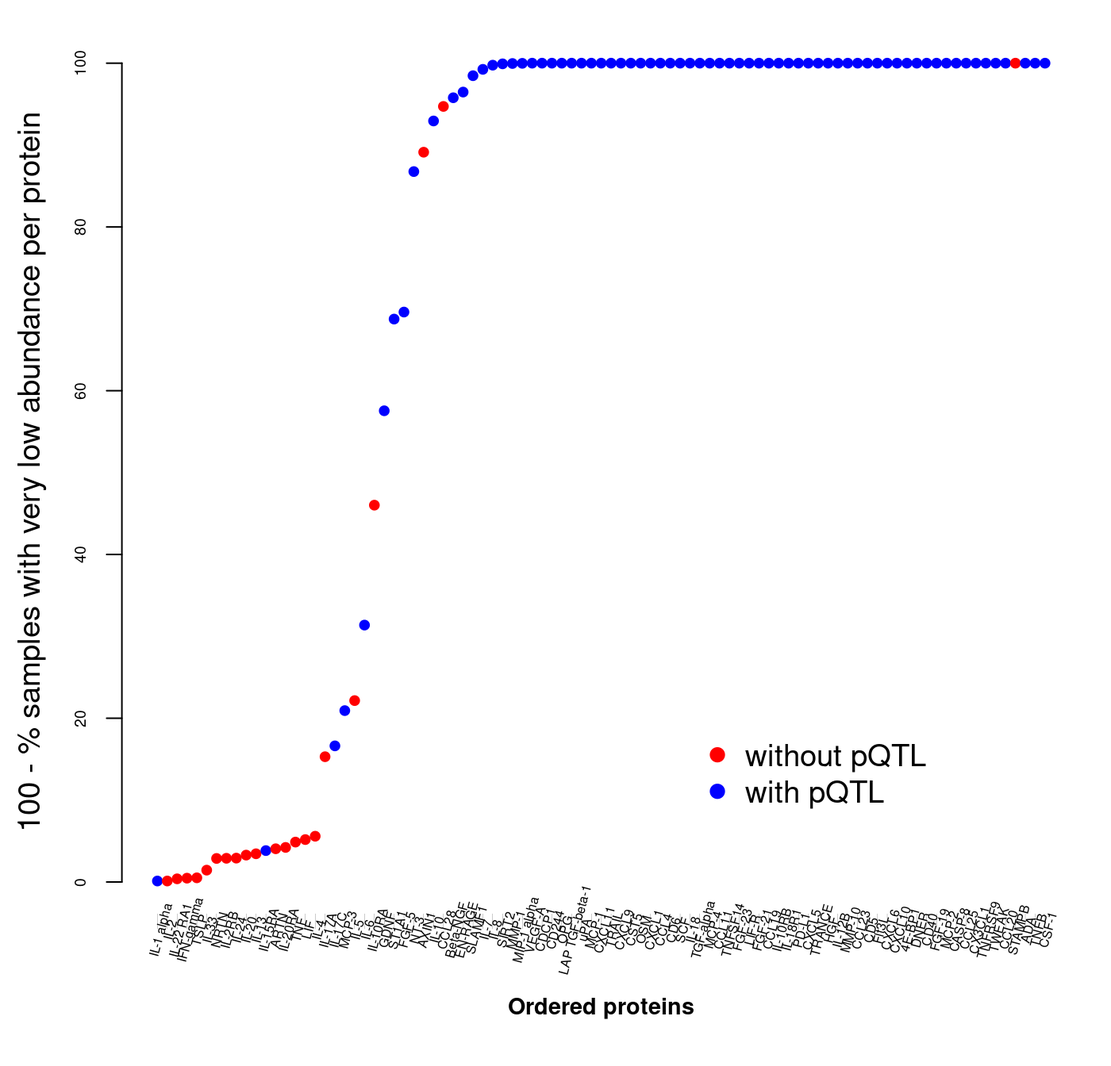
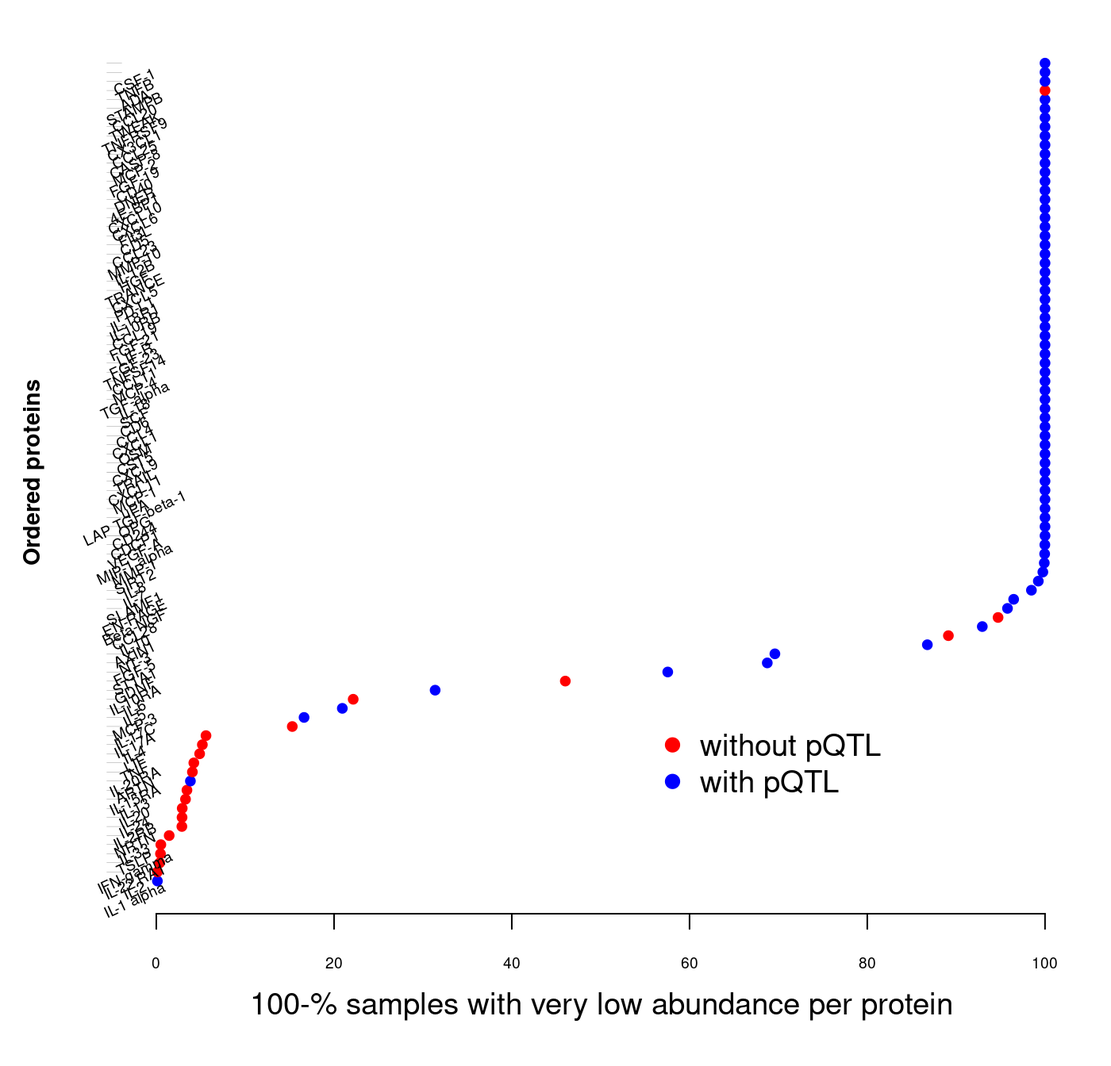
docs

diff --git a/docs/articles/es.html b/docs/articles/es.html
@@ -138,10 +138,10 @@
     
 <div class="sourceCode" id="cb1"><pre class="downlit sourceCode r">
 <code class="sourceCode R"><span><span class="va">pkgs</span> <span class="op">&lt;-</span> <span class="fu"><a href="https://rdrr.io/r/base/c.html" class="external-link">c</a></span><span class="op">(</span><span class="st">"Biobase"</span>, <span class="st">"arrayQualityMetrics"</span>, <span class="st">"knitr"</span>, <span class="st">"pQTLtools"</span><span class="op">)</span></span>
-<span><span class="kw">for</span> <span class="op">(</span><span class="va">p</span> <span class="kw">in</span> <span class="va">pkgs</span><span class="op">)</span> <span class="kw">if</span> <span class="op">(</span><span class="fu"><a href="https://rdrr.io/r/base/length.html" class="external-link">length</a></span><span class="op">(</span><span class="fu"><a href="https://rdrr.io/pkg/BiocGenerics/man/grep.html" class="external-link">grep</a></span><span class="op">(</span><span class="fu"><a href="https://rdrr.io/pkg/BiocGenerics/man/paste.html" class="external-link">paste</a></span><span class="op">(</span><span class="st">"^package:"</span>, <span class="va">p</span>, <span class="st">"$"</span>, sep<span class="op">=</span><span class="st">""</span><span class="op">)</span>, <span class="fu"><a href="https://rdrr.io/r/base/search.html" class="external-link">search</a></span><span class="op">(</span><span class="op">)</span><span class="op">)</span><span class="op">)</span> <span class="op">==</span> <span class="fl">0</span><span class="op">)</span> <span class="op">{</span></span>
+<span><span class="kw">for</span> <span class="op">(</span><span class="va">p</span> <span class="kw">in</span> <span class="va">pkgs</span><span class="op">)</span> <span class="kw">if</span> <span class="op">(</span><span class="fu"><a href="https://rdrr.io/r/base/length.html" class="external-link">length</a></span><span class="op">(</span><span class="fu"><a href="https://rdrr.io/r/base/grep.html" class="external-link">grep</a></span><span class="op">(</span><span class="fu"><a href="https://rdrr.io/r/base/paste.html" class="external-link">paste</a></span><span class="op">(</span><span class="st">"^package:"</span>, <span class="va">p</span>, <span class="st">"$"</span>, sep<span class="op">=</span><span class="st">""</span><span class="op">)</span>, <span class="fu"><a href="https://rdrr.io/r/base/search.html" class="external-link">search</a></span><span class="op">(</span><span class="op">)</span><span class="op">)</span><span class="op">)</span> <span class="op">==</span> <span class="fl">0</span><span class="op">)</span> <span class="op">{</span></span>
 <span>    <span class="kw">if</span> <span class="op">(</span><span class="op">!</span><span class="fu"><a href="https://rdrr.io/r/base/ns-load.html" class="external-link">requireNamespace</a></span><span class="op">(</span><span class="va">p</span><span class="op">)</span><span class="op">)</span> <span class="kw"><a href="https://rdrr.io/r/base/warning.html" class="external-link">warning</a></span><span class="op">(</span><span class="fu"><a href="https://rdrr.io/r/base/paste.html" class="external-link">paste0</a></span><span class="op">(</span><span class="st">"This vignette needs package `"</span>, <span class="va">p</span>, <span class="st">"'; please install"</span><span class="op">)</span><span class="op">)</span></span>
 <span><span class="op">}</span></span>
-<span><span class="fu"><a href="https://rdrr.io/r/base/invisible.html" class="external-link">invisible</a></span><span class="op">(</span><span class="fu"><a href="https://rdrr.io/r/base/message.html" class="external-link">suppressMessages</a></span><span class="op">(</span><span class="fu"><a href="https://rdrr.io/pkg/BiocGenerics/man/lapply.html" class="external-link">lapply</a></span><span class="op">(</span><span class="va">pkgs</span>, <span class="va">require</span>, character.only <span class="op">=</span> <span class="cn">TRUE</span><span class="op">)</span><span class="op">)</span><span class="op">)</span></span></code></pre></div>
+<span><span class="fu"><a href="https://rdrr.io/r/base/invisible.html" class="external-link">invisible</a></span><span class="op">(</span><span class="fu"><a href="https://rdrr.io/r/base/message.html" class="external-link">suppressMessages</a></span><span class="op">(</span><span class="fu"><a href="https://rdrr.io/r/base/lapply.html" class="external-link">lapply</a></span><span class="op">(</span><span class="va">pkgs</span>, <span class="va">require</span>, character.only <span class="op">=</span> <span class="cn">TRUE</span><span class="op">)</span><span class="op">)</span><span class="op">)</span></span></code></pre></div>
 <p>We illustrate Bioconductor/Biobase’s ExpressionSet with its example
 and finish with a real example. See also the reference section.</p>
 <div class="sourceCode" id="cb2"><pre class="downlit sourceCode r">
@@ -150,14 +150,14 @@ and finish with a real example. See also the reference section.</p>
 <span><span class="va">exprs</span> <span class="op">&lt;-</span> <span class="fu"><a href="https://rdrr.io/r/base/matrix.html" class="external-link">as.matrix</a></span><span class="op">(</span><span class="fu"><a href="https://rdrr.io/r/utils/read.table.html" class="external-link">read.table</a></span><span class="op">(</span><span class="va">exprsFile</span>, header<span class="op">=</span><span class="cn">TRUE</span>, sep<span class="op">=</span><span class="st">"\t"</span>, row.names<span class="op">=</span><span class="fl">1</span>, as.is<span class="op">=</span><span class="cn">TRUE</span><span class="op">)</span><span class="op">)</span></span>
 <span><span class="va">pDataFile</span> <span class="op">&lt;-</span> <span class="fu"><a href="https://rdrr.io/r/base/file.path.html" class="external-link">file.path</a></span><span class="op">(</span><span class="va">dataDirectory</span>, <span class="st">"pData.txt"</span><span class="op">)</span></span>
 <span><span class="va">pData</span> <span class="op">&lt;-</span> <span class="fu"><a href="https://rdrr.io/r/utils/read.table.html" class="external-link">read.table</a></span><span class="op">(</span><span class="va">pDataFile</span>, row.names<span class="op">=</span><span class="fl">1</span>, header<span class="op">=</span><span class="cn">TRUE</span>, sep<span class="op">=</span><span class="st">"\t"</span><span class="op">)</span></span>
-<span><span class="fu"><a href="https://rdrr.io/r/base/all.html" class="external-link">all</a></span><span class="op">(</span><span class="fu"><a href="https://rdrr.io/pkg/BiocGenerics/man/row_colnames.html" class="external-link">rownames</a></span><span class="op">(</span><span class="va">pData</span><span class="op">)</span><span class="op">==</span><span class="fu"><a href="https://rdrr.io/pkg/BiocGenerics/man/row_colnames.html" class="external-link">colnames</a></span><span class="op">(</span><span class="va">exprs</span><span class="op">)</span><span class="op">)</span></span>
+<span><span class="fu"><a href="https://rdrr.io/r/base/all.html" class="external-link">all</a></span><span class="op">(</span><span class="fu"><a href="https://rdrr.io/r/base/colnames.html" class="external-link">rownames</a></span><span class="op">(</span><span class="va">pData</span><span class="op">)</span><span class="op">==</span><span class="fu"><a href="https://rdrr.io/r/base/colnames.html" class="external-link">colnames</a></span><span class="op">(</span><span class="va">exprs</span><span class="op">)</span><span class="op">)</span></span>
 <span><span class="va">metadata</span> <span class="op">&lt;-</span> <span class="fu"><a href="https://rdrr.io/r/base/data.frame.html" class="external-link">data.frame</a></span><span class="op">(</span>labelDescription<span class="op">=</span></span>
 <span>                       <span class="fu"><a href="https://rdrr.io/r/base/c.html" class="external-link">c</a></span><span class="op">(</span><span class="st">"Patient gender"</span>,</span>
 <span>                         <span class="st">"Case/control status"</span>,</span>
 <span>                         <span class="st">"Tumor progress on XYZ scale"</span><span class="op">)</span>,</span>
 <span>                       row.names<span class="op">=</span><span class="fu"><a href="https://rdrr.io/r/base/c.html" class="external-link">c</a></span><span class="op">(</span><span class="st">"gender"</span>, <span class="st">"type"</span>, <span class="st">"score"</span><span class="op">)</span><span class="op">)</span></span>
-<span><span class="va">phenoData</span> <span class="op">&lt;-</span> <span class="fu"><a href="https://rdrr.io/r/methods/new.html" class="external-link">new</a></span><span class="op">(</span><span class="st">"AnnotatedDataFrame"</span>, data<span class="op">=</span><span class="va">pData</span>, varMetadata<span class="op">=</span><span class="va">metadata</span><span class="op">)</span></span>
-<span><span class="va">experimentData</span> <span class="op">&lt;-</span> <span class="fu"><a href="https://rdrr.io/r/methods/new.html" class="external-link">new</a></span><span class="op">(</span><span class="st">"MIAME"</span>,</span>
+<span><span class="va">phenoData</span> <span class="op">&lt;-</span> <span class="fu">new</span><span class="op">(</span><span class="st">"AnnotatedDataFrame"</span>, data<span class="op">=</span><span class="va">pData</span>, varMetadata<span class="op">=</span><span class="va">metadata</span><span class="op">)</span></span>
+<span><span class="va">experimentData</span> <span class="op">&lt;-</span> <span class="fu">new</span><span class="op">(</span><span class="st">"MIAME"</span>,</span>
 <span>  name<span class="op">=</span><span class="st">"Pierre Fermat"</span>,</span>
 <span>  lab<span class="op">=</span><span class="st">"Francis Galton Lab"</span>,</span>
 <span>  contact<span class="op">=</span><span class="st">"pfermat@lab.not.exist"</span>,</span>
@@ -175,7 +175,7 @@ and finish with a real example. See also the reference section.</p>
 <p>The great benefit is to use the object directly as a data.frame.</p>
 <div class="sourceCode" id="cb3"><pre class="downlit sourceCode r">
 <code class="sourceCode R"><span><span class="va">lm.result</span> <span class="op">&lt;-</span> <span class="fu">esApply</span><span class="op">(</span><span class="va">exampleSet</span>,<span class="fl">1</span>,<span class="kw">function</span><span class="op">(</span><span class="va">x</span><span class="op">)</span> <span class="fu"><a href="https://rdrr.io/r/stats/lm.html" class="external-link">lm</a></span><span class="op">(</span><span class="va">score</span><span class="op">~</span><span class="va">gender</span><span class="op">+</span><span class="va">x</span><span class="op">)</span><span class="op">)</span></span>
-<span><span class="va">beta.x</span> <span class="op">&lt;-</span> <span class="fu"><a href="https://rdrr.io/pkg/BiocGenerics/man/unlist.html" class="external-link">unlist</a></span><span class="op">(</span><span class="fu"><a href="https://rdrr.io/pkg/BiocGenerics/man/lapply.html" class="external-link">lapply</a></span><span class="op">(</span><span class="fu"><a href="https://rdrr.io/pkg/BiocGenerics/man/lapply.html" class="external-link">lapply</a></span><span class="op">(</span><span class="va">lm.result</span>,<span class="va">coef</span><span class="op">)</span>,<span class="st">"["</span>,<span class="fl">3</span><span class="op">)</span><span class="op">)</span></span>
+<span><span class="va">beta.x</span> <span class="op">&lt;-</span> <span class="fu"><a href="https://rdrr.io/r/base/unlist.html" class="external-link">unlist</a></span><span class="op">(</span><span class="fu"><a href="https://rdrr.io/r/base/lapply.html" class="external-link">lapply</a></span><span class="op">(</span><span class="fu"><a href="https://rdrr.io/r/base/lapply.html" class="external-link">lapply</a></span><span class="op">(</span><span class="va">lm.result</span>,<span class="va">coef</span><span class="op">)</span>,<span class="st">"["</span>,<span class="fl">3</span><span class="op">)</span><span class="op">)</span></span>
 <span><span class="va">beta.x</span><span class="op">[</span><span class="fl">1</span><span class="op">]</span></span>
 <span><span class="co">#&gt; AFFX-MurIL2_at.x </span></span>
 <span><span class="co">#&gt;    -0.0001907472</span></span>
@@ -199,8 +199,8 @@ simplicity as before</p>
 <p>but it is nicer to add feature name in the title.</p>
 <div class="sourceCode" id="cb5"><pre class="downlit sourceCode r">
 <code class="sourceCode R"><span><span class="va">f</span> <span class="op">&lt;-</span> <span class="fu">featureNames</span><span class="op">(</span><span class="va">exampleSet</span><span class="op">[</span><span class="fl">1</span><span class="op">:</span><span class="fl">2</span><span class="op">]</span><span class="op">)</span></span>
-<span><span class="fu"><a href="https://rdrr.io/r/base/invisible.html" class="external-link">invisible</a></span><span class="op">(</span><span class="fu"><a href="https://rdrr.io/pkg/BiocGenerics/man/lapply.html" class="external-link">sapply</a></span><span class="op">(</span><span class="va">f</span>,<span class="kw">function</span><span class="op">(</span><span class="va">x</span><span class="op">)</span> <span class="op">{</span></span>
-<span>                     <span class="va">d</span> <span class="op">&lt;-</span> <span class="fu"><a href="https://rdrr.io/pkg/BiocGenerics/man/t.html" class="external-link">t</a></span><span class="op">(</span><span class="fu">exprs</span><span class="op">(</span><span class="va">exampleSet</span><span class="op">[</span><span class="va">x</span><span class="op">]</span><span class="op">)</span><span class="op">)</span></span>
+<span><span class="fu"><a href="https://rdrr.io/r/base/invisible.html" class="external-link">invisible</a></span><span class="op">(</span><span class="fu"><a href="https://rdrr.io/r/base/lapply.html" class="external-link">sapply</a></span><span class="op">(</span><span class="va">f</span>,<span class="kw">function</span><span class="op">(</span><span class="va">x</span><span class="op">)</span> <span class="op">{</span></span>
+<span>                     <span class="va">d</span> <span class="op">&lt;-</span> <span class="fu"><a href="https://rdrr.io/r/base/t.html" class="external-link">t</a></span><span class="op">(</span><span class="fu">exprs</span><span class="op">(</span><span class="va">exampleSet</span><span class="op">[</span><span class="va">x</span><span class="op">]</span><span class="op">)</span><span class="op">)</span></span>
 <span>                     <span class="va">fn</span> <span class="op">&lt;-</span> <span class="fu">featureNames</span><span class="op">(</span><span class="va">exampleSet</span><span class="op">[</span><span class="va">x</span><span class="op">]</span><span class="op">)</span></span>
 <span>                     <span class="fu"><a href="https://rdrr.io/r/graphics/par.html" class="external-link">par</a></span><span class="op">(</span>mfrow<span class="op">=</span><span class="fu"><a href="https://rdrr.io/r/base/c.html" class="external-link">c</a></span><span class="op">(</span><span class="fl">3</span>,<span class="fl">1</span><span class="op">)</span><span class="op">)</span></span>
 <span>                     <span class="fu"><a href="https://rdrr.io/r/graphics/hist.html" class="external-link">hist</a></span><span class="op">(</span><span class="va">d</span>,main<span class="op">=</span><span class="st">""</span>,xlab<span class="op">=</span><span class="va">fn</span><span class="op">)</span>; <span class="fu"><a href="https://rdrr.io/r/graphics/plot.default.html" class="external-link">plot</a></span><span class="op">(</span><span class="va">d</span>, ylab<span class="op">=</span><span class="va">fn</span><span class="op">)</span>; <span class="fu"><a href="https://rdrr.io/r/graphics/boxplot.html" class="external-link">boxplot</a></span><span class="op">(</span><span class="va">d</span>,ylab<span class="op">=</span><span class="va">fn</span><span class="op">)</span></span>
@@ -239,9 +239,9 @@ experiment</p>
 <div class="sourceCode" id="cb8"><pre class="downlit sourceCode r">
 <code class="sourceCode R"><span><span class="fu">fData</span><span class="op">(</span><span class="va">exampleSet</span><span class="op">)</span></span>
 <span><span class="co">#&gt; data frame with 0 columns and 500 rows</span></span>
-<span><span class="fu">fData</span><span class="op">(</span><span class="va">exampleSet</span><span class="op">)</span><span class="op">$</span><span class="va">lod.max</span> <span class="op">&lt;-</span> <span class="fu"><a href="https://rdrr.io/r/base/apply.html" class="external-link">apply</a></span><span class="op">(</span><span class="fu">exprs</span><span class="op">(</span><span class="va">exampleSet</span><span class="op">)</span>,<span class="fl">1</span>,<span class="va">quantile</span>,<span class="fu"><a href="https://rdrr.io/r/stats/Uniform.html" class="external-link">runif</a></span><span class="op">(</span><span class="fu"><a href="https://rdrr.io/pkg/BiocGenerics/man/nrow.html" class="external-link">nrow</a></span><span class="op">(</span><span class="va">exampleSet</span><span class="op">)</span><span class="op">)</span><span class="op">)</span></span>
+<span><span class="fu">fData</span><span class="op">(</span><span class="va">exampleSet</span><span class="op">)</span><span class="op">$</span><span class="va">lod.max</span> <span class="op">&lt;-</span> <span class="fu"><a href="https://rdrr.io/r/base/apply.html" class="external-link">apply</a></span><span class="op">(</span><span class="fu">exprs</span><span class="op">(</span><span class="va">exampleSet</span><span class="op">)</span>,<span class="fl">1</span>,<span class="va">quantile</span>,<span class="fu"><a href="https://rdrr.io/r/stats/Uniform.html" class="external-link">runif</a></span><span class="op">(</span><span class="fu"><a href="https://rdrr.io/r/base/nrow.html" class="external-link">nrow</a></span><span class="op">(</span><span class="va">exampleSet</span><span class="op">)</span><span class="op">)</span><span class="op">)</span></span>
 <span><span class="va">lod</span> <span class="op">&lt;-</span> <span class="fu"><a href="../reference/get.prop.below.LLOD.html">get.prop.below.LLOD</a></span><span class="op">(</span><span class="va">exampleSet</span><span class="op">)</span></span>
-<span><span class="va">x</span> <span class="op">&lt;-</span> <span class="fu">dplyr</span><span class="fu">::</span><span class="fu"><a href="https://dplyr.tidyverse.org/reference/arrange.html" class="external-link">arrange</a></span><span class="op">(</span><span class="fu">fData</span><span class="op">(</span><span class="va">lod</span><span class="op">)</span>,<span class="fu"><a href="https://dplyr.tidyverse.org/reference/desc.html" class="external-link">desc</a></span><span class="op">(</span><span class="va">pc.belowLOD.new</span><span class="op">)</span><span class="op">)</span></span>
+<span><span class="va">x</span> <span class="op">&lt;-</span> <span class="fu">dplyr</span><span class="fu">::</span><span class="fu"><a href="https://dplyr.tidyverse.org/reference/arrange.html" class="external-link">arrange</a></span><span class="op">(</span><span class="fu">fData</span><span class="op">(</span><span class="va">lod</span><span class="op">)</span>,<span class="fu">desc</span><span class="op">(</span><span class="va">pc.belowLOD.new</span><span class="op">)</span><span class="op">)</span></span>
 <span><span class="fu">kable</span><span class="op">(</span><span class="fu"><a href="https://rdrr.io/r/utils/head.html" class="external-link">head</a></span><span class="op">(</span><span class="va">lod</span><span class="op">)</span><span class="op">)</span></span></code></pre></div>
 <table class="table">
 <colgroup>
@@ -598,28 +598,28 @@ and therefore pQTL detection as is shown with a real example.</p>
 <span><span class="fu"><a href="https://rdrr.io/r/graphics/plot.default.html" class="external-link">plot</a></span><span class="op">(</span><span class="va">annot</span><span class="op">$</span><span class="va">MissDataProp</span>, <span class="va">annot</span><span class="op">$</span><span class="va">pc.belowLOD.new</span>, xlab<span class="op">=</span><span class="st">"% &lt;LLOD in Original"</span>,</span>
 <span>     ylab<span class="op">=</span><span class="st">"% &lt;LLOD in post QC dataset"</span>, pch<span class="op">=</span><span class="fl">19</span><span class="op">)</span></span>
 <span><span class="va">INF</span> <span class="op">&lt;-</span> <span class="fu"><a href="https://rdrr.io/r/base/Sys.getenv.html" class="external-link">Sys.getenv</a></span><span class="op">(</span><span class="st">"INF"</span><span class="op">)</span></span>
-<span><span class="va">np</span> <span class="op">&lt;-</span> <span class="fu"><a href="https://rdrr.io/r/utils/read.table.html" class="external-link">read.table</a></span><span class="op">(</span><span class="fu"><a href="https://rdrr.io/pkg/BiocGenerics/man/paste.html" class="external-link">paste</a></span><span class="op">(</span><span class="va">INF</span>, <span class="st">"work"</span>, <span class="st">"INF1.merge.nosig"</span>, sep<span class="op">=</span><span class="st">"/"</span><span class="op">)</span>, header<span class="op">=</span><span class="cn">FALSE</span>,</span>
+<span><span class="va">np</span> <span class="op">&lt;-</span> <span class="fu"><a href="https://rdrr.io/r/utils/read.table.html" class="external-link">read.table</a></span><span class="op">(</span><span class="fu"><a href="https://rdrr.io/r/base/paste.html" class="external-link">paste</a></span><span class="op">(</span><span class="va">INF</span>, <span class="st">"work"</span>, <span class="st">"INF1.merge.nosig"</span>, sep<span class="op">=</span><span class="st">"/"</span><span class="op">)</span>, header<span class="op">=</span><span class="cn">FALSE</span>,</span>
 <span>                 col.names <span class="op">=</span> <span class="fu"><a href="https://rdrr.io/r/base/c.html" class="external-link">c</a></span><span class="op">(</span><span class="st">"prot"</span>, <span class="st">"uniprot"</span><span class="op">)</span><span class="op">)</span></span>
 <span><span class="fu">kable</span><span class="op">(</span><span class="va">np</span>, caption<span class="op">=</span><span class="st">"Proteins with no pQTL"</span><span class="op">)</span></span>
-<span><span class="va">annot</span><span class="op">$</span><span class="va">pQTL</span> <span class="op">&lt;-</span> <span class="fu"><a href="https://rdrr.io/r/base/rep.html" class="external-link">rep</a></span><span class="op">(</span><span class="cn">NA</span>, <span class="fu"><a href="https://rdrr.io/pkg/BiocGenerics/man/nrow.html" class="external-link">nrow</a></span><span class="op">(</span><span class="va">annot</span><span class="op">)</span><span class="op">)</span></span>
-<span><span class="va">no.pQTL.ind</span> <span class="op">&lt;-</span> <span class="fu"><a href="https://rdrr.io/pkg/BiocGenerics/man/which.html" class="external-link">which</a></span><span class="op">(</span><span class="va">annot</span><span class="op">$</span><span class="va">uniprot.id</span> <span class="op"><a href="https://rdrr.io/pkg/BiocGenerics/man/match.html" class="external-link">%in%</a></span> <span class="va">np</span><span class="op">$</span><span class="va">uniprot</span><span class="op">)</span></span>
+<span><span class="va">annot</span><span class="op">$</span><span class="va">pQTL</span> <span class="op">&lt;-</span> <span class="fu"><a href="https://rdrr.io/r/base/rep.html" class="external-link">rep</a></span><span class="op">(</span><span class="cn">NA</span>, <span class="fu"><a href="https://rdrr.io/r/base/nrow.html" class="external-link">nrow</a></span><span class="op">(</span><span class="va">annot</span><span class="op">)</span><span class="op">)</span></span>
+<span><span class="va">no.pQTL.ind</span> <span class="op">&lt;-</span> <span class="fu"><a href="https://rdrr.io/r/base/which.html" class="external-link">which</a></span><span class="op">(</span><span class="va">annot</span><span class="op">$</span><span class="va">uniprot.id</span> <span class="op"><a href="https://rdrr.io/r/base/match.html" class="external-link">%in%</a></span> <span class="va">np</span><span class="op">$</span><span class="va">uniprot</span><span class="op">)</span></span>
 <span><span class="va">annot</span><span class="op">$</span><span class="va">pQTL</span><span class="op">[</span><span class="va">no.pQTL.ind</span><span class="op">]</span> <span class="op">&lt;-</span> <span class="st">"red"</span></span>
 <span><span class="va">annot</span><span class="op">$</span><span class="va">pQTL</span><span class="op">[</span><span class="op">-</span><span class="va">no.pQTL.ind</span><span class="op">]</span> <span class="op">&lt;-</span> <span class="st">"blue"</span></span>
-<span><span class="va">annot</span> <span class="op">&lt;-</span> <span class="va">annot</span><span class="op">[</span><span class="fu"><a href="https://rdrr.io/pkg/BiocGenerics/man/order.html" class="external-link">order</a></span><span class="op">(</span><span class="va">annot</span><span class="op">$</span><span class="va">pc.belowLOD.new</span>, decreasing <span class="op">=</span> <span class="cn">TRUE</span><span class="op">)</span>,<span class="op">]</span></span>
-<span><span class="va">annot</span> <span class="op">&lt;-</span> <span class="va">annot</span><span class="op">[</span><span class="op">-</span><span class="fu"><a href="https://rdrr.io/pkg/BiocGenerics/man/grep.html" class="external-link">grep</a></span><span class="op">(</span><span class="st">"^BDNF$"</span>, <span class="va">annot</span><span class="op">$</span><span class="va">ID</span><span class="op">)</span>,<span class="op">]</span></span>
+<span><span class="va">annot</span> <span class="op">&lt;-</span> <span class="va">annot</span><span class="op">[</span><span class="fu"><a href="https://rdrr.io/r/base/order.html" class="external-link">order</a></span><span class="op">(</span><span class="va">annot</span><span class="op">$</span><span class="va">pc.belowLOD.new</span>, decreasing <span class="op">=</span> <span class="cn">TRUE</span><span class="op">)</span>,<span class="op">]</span></span>
+<span><span class="va">annot</span> <span class="op">&lt;-</span> <span class="va">annot</span><span class="op">[</span><span class="op">-</span><span class="fu"><a href="https://rdrr.io/r/base/grep.html" class="external-link">grep</a></span><span class="op">(</span><span class="st">"^BDNF$"</span>, <span class="va">annot</span><span class="op">$</span><span class="va">ID</span><span class="op">)</span>,<span class="op">]</span></span>
 <span><span class="fu"><a href="https://rdrr.io/r/base/readRDS.html" class="external-link">saveRDS</a></span><span class="op">(</span><span class="va">annot</span>,file<span class="op">=</span><span class="fu"><a href="https://rdrr.io/r/base/file.path.html" class="external-link">file.path</a></span><span class="op">(</span><span class="st">"~"</span>,<span class="st">"pQTLtools"</span>,<span class="st">"tests"</span>,<span class="st">"annot.RDS"</span><span class="op">)</span><span class="op">)</span></span></code></pre></div>
 <div class="sourceCode" id="cb11"><pre class="downlit sourceCode r">
 <code class="sourceCode R"><span><span class="va">annot</span> <span class="op">&lt;-</span> <span class="fu"><a href="https://rdrr.io/r/base/readRDS.html" class="external-link">readRDS</a></span><span class="op">(</span><span class="fu"><a href="https://rdrr.io/r/base/file.path.html" class="external-link">file.path</a></span><span class="op">(</span><span class="st">"~"</span>,<span class="st">"pQTLtools"</span>,<span class="st">"tests"</span>,<span class="st">"annot.RDS"</span><span class="op">)</span><span class="op">)</span></span>
 <span><span class="va">annot</span> <span class="op">&lt;-</span> <span class="fu"><a href="https://rdrr.io/r/base/with.html" class="external-link">within</a></span><span class="op">(</span><span class="va">annot</span>,<span class="op">{</span><span class="va">prot</span><span class="op">=</span><span class="fu"><a href="https://rdrr.io/r/base/grep.html" class="external-link">gsub</a></span><span class="op">(</span><span class="st">"^[0-9]*_"</span>,<span class="st">""</span>,<span class="va">olink.id</span><span class="op">)</span><span class="op">}</span><span class="op">)</span></span>
 <span><span class="fu"><a href="https://rdrr.io/r/graphics/par.html" class="external-link">par</a></span><span class="op">(</span>mar<span class="op">=</span><span class="fu"><a href="https://rdrr.io/r/base/c.html" class="external-link">c</a></span><span class="op">(</span><span class="fl">5</span>,<span class="fl">4</span>,<span class="fl">1</span>,<span class="fl">1</span><span class="op">)</span><span class="op">)</span></span>
 <span><span class="kw"><a href="https://rdrr.io/r/base/attach.html" class="external-link">attach</a></span><span class="op">(</span><span class="va">annot</span><span class="op">)</span></span>
-<span><span class="fu"><a href="https://rdrr.io/r/graphics/plot.default.html" class="external-link">plot</a></span><span class="op">(</span><span class="fl">100</span><span class="op">-</span><span class="va">pc.belowLOD.new</span>,cex<span class="op">=</span><span class="fl">0.8</span>,pch<span class="op">=</span><span class="fl">19</span>,col<span class="op">=</span><span class="va">pQTL</span>,axes<span class="op">=</span><span class="cn">FALSE</span>, xlab<span class="op">=</span><span class="st">""</span>, ylab<span class="op">=</span><span class="st">""</span>, cex.lab<span class="op">=</span><span class="fl">0.8</span><span class="op">)</span></span>
-<span><span class="va">xtick</span> <span class="op">&lt;-</span> <span class="fu"><a href="https://rdrr.io/r/base/seq.html" class="external-link">seq</a></span><span class="op">(</span><span class="fl">1</span>, <span class="fu"><a href="https://rdrr.io/pkg/BiocGenerics/man/nrow.html" class="external-link">nrow</a></span><span class="op">(</span><span class="va">annot</span><span class="op">)</span><span class="op">)</span></span>
-<span><span class="fu"><a href="https://rdrr.io/r/graphics/axis.html" class="external-link">axis</a></span><span class="op">(</span><span class="fl">1</span>, at<span class="op">=</span><span class="va">xtick</span>, labels <span class="op">=</span> <span class="cn">FALSE</span>, lwd.tick<span class="op">=</span><span class="fl">0.1</span>, lwd<span class="op">=</span><span class="fl">0</span><span class="op">)</span></span>
-<span><span class="fu"><a href="https://rdrr.io/r/graphics/axis.html" class="external-link">axis</a></span><span class="op">(</span><span class="fl">2</span>, cex.axis<span class="op">=</span><span class="fl">0.6</span><span class="op">)</span></span>
-<span><span class="fu"><a href="https://rdrr.io/r/graphics/text.html" class="external-link">text</a></span><span class="op">(</span>x<span class="op">=</span><span class="va">xtick</span>, <span class="fu"><a href="https://rdrr.io/r/graphics/par.html" class="external-link">par</a></span><span class="op">(</span><span class="st">"usr"</span><span class="op">)</span><span class="op">[</span><span class="fl">3</span><span class="op">]</span>,labels <span class="op">=</span> <span class="va">prot</span>, srt <span class="op">=</span> <span class="fl">75</span>, pos <span class="op">=</span> <span class="fl">1</span>, xpd <span class="op">=</span> <span class="cn">TRUE</span>, cex<span class="op">=</span><span class="fl">0.5</span><span class="op">)</span></span>
-<span><span class="fu"><a href="https://rdrr.io/r/graphics/mtext.html" class="external-link">mtext</a></span><span class="op">(</span><span class="st">"100 - % samples with very low abundance per protein"</span>,side<span class="op">=</span><span class="fl">2</span>,line<span class="op">=</span><span class="fl">2.5</span>,cex<span class="op">=</span><span class="fl">1.2</span><span class="op">)</span></span>
-<span><span class="fu"><a href="https://rdrr.io/r/graphics/mtext.html" class="external-link">mtext</a></span><span class="op">(</span><span class="st">"Ordered proteins"</span>,side<span class="op">=</span><span class="fl">1</span>,line<span class="op">=</span><span class="fl">2.5</span>,cex<span class="op">=</span><span class="fl">0.9</span>,font<span class="op">=</span><span class="fl">2</span><span class="op">)</span></span>
+<span><span class="va">ytick</span> <span class="op">&lt;-</span> <span class="fu"><a href="https://rdrr.io/r/base/seq.html" class="external-link">seq</a></span><span class="op">(</span><span class="fl">1</span>, <span class="fu"><a href="https://rdrr.io/r/base/nrow.html" class="external-link">nrow</a></span><span class="op">(</span><span class="va">annot</span><span class="op">)</span><span class="op">)</span></span>
+<span><span class="fu"><a href="https://rdrr.io/r/graphics/plot.default.html" class="external-link">plot</a></span><span class="op">(</span><span class="fl">100</span><span class="op">-</span><span class="va">pc.belowLOD.new</span>,<span class="va">ytick</span>,cex<span class="op">=</span><span class="fl">0.8</span>,pch<span class="op">=</span><span class="fl">19</span>,col<span class="op">=</span><span class="va">pQTL</span>,axes<span class="op">=</span><span class="cn">FALSE</span>, xlab<span class="op">=</span><span class="st">""</span>, ylab<span class="op">=</span><span class="st">""</span>, cex.lab<span class="op">=</span><span class="fl">0.8</span><span class="op">)</span></span>
+<span><span class="fu"><a href="https://rdrr.io/r/graphics/axis.html" class="external-link">axis</a></span><span class="op">(</span><span class="fl">1</span>, cex.axis<span class="op">=</span><span class="fl">0.6</span><span class="op">)</span></span>
+<span><span class="fu"><a href="https://rdrr.io/r/graphics/axis.html" class="external-link">axis</a></span><span class="op">(</span><span class="fl">2</span>, at<span class="op">=</span><span class="va">ytick</span>, labels <span class="op">=</span> <span class="cn">FALSE</span>, lwd.tick<span class="op">=</span><span class="fl">0.1</span>, lwd<span class="op">=</span><span class="fl">0</span><span class="op">)</span></span>
+<span><span class="fu"><a href="https://rdrr.io/r/graphics/text.html" class="external-link">text</a></span><span class="op">(</span>y<span class="op">=</span><span class="va">ytick</span>, <span class="fu"><a href="https://rdrr.io/r/graphics/par.html" class="external-link">par</a></span><span class="op">(</span><span class="st">"usr"</span><span class="op">)</span><span class="op">[</span><span class="fl">3</span><span class="op">]</span>,labels <span class="op">=</span> <span class="va">prot</span>, srt <span class="op">=</span> <span class="fl">25</span>, pos <span class="op">=</span> <span class="fl">1</span>, xpd <span class="op">=</span> <span class="cn">TRUE</span>, cex<span class="op">=</span><span class="fl">0.6</span><span class="op">)</span></span>
+<span><span class="fu"><a href="https://rdrr.io/r/graphics/mtext.html" class="external-link">mtext</a></span><span class="op">(</span><span class="st">"100-% samples with very low abundance per protein"</span>,side<span class="op">=</span><span class="fl">1</span>,line<span class="op">=</span><span class="fl">2.5</span>,cex<span class="op">=</span><span class="fl">1.2</span><span class="op">)</span></span>
+<span><span class="fu"><a href="https://rdrr.io/r/graphics/mtext.html" class="external-link">mtext</a></span><span class="op">(</span><span class="st">"Ordered proteins"</span>,side<span class="op">=</span><span class="fl">2</span>,line<span class="op">=</span><span class="fl">2.5</span>,cex<span class="op">=</span><span class="fl">0.9</span>,font<span class="op">=</span><span class="fl">2</span><span class="op">)</span></span>
 <span><span class="fu"><a href="https://rdrr.io/r/graphics/legend.html" class="external-link">legend</a></span><span class="op">(</span>x<span class="op">=</span><span class="fl">55</span>,y<span class="op">=</span><span class="fl">20</span>,<span class="fu"><a href="https://rdrr.io/r/base/c.html" class="external-link">c</a></span><span class="op">(</span><span class="st">"without pQTL"</span>,<span class="st">"with pQTL"</span><span class="op">)</span>,box.lwd<span class="op">=</span><span class="fl">0</span>,cex<span class="op">=</span><span class="fl">1.2</span>,col<span class="op">=</span><span class="fu"><a href="https://rdrr.io/r/base/c.html" class="external-link">c</a></span><span class="op">(</span><span class="st">"red"</span>,<span class="st">"blue"</span><span class="op">)</span>,pch<span class="op">=</span><span class="fl">19</span><span class="op">)</span></span></code></pre></div>
 <p><img src="es/lod-1.png" width="700" style="display:block; margin: auto"></p>
 <div class="sourceCode" id="cb12"><pre class="downlit sourceCode r">
